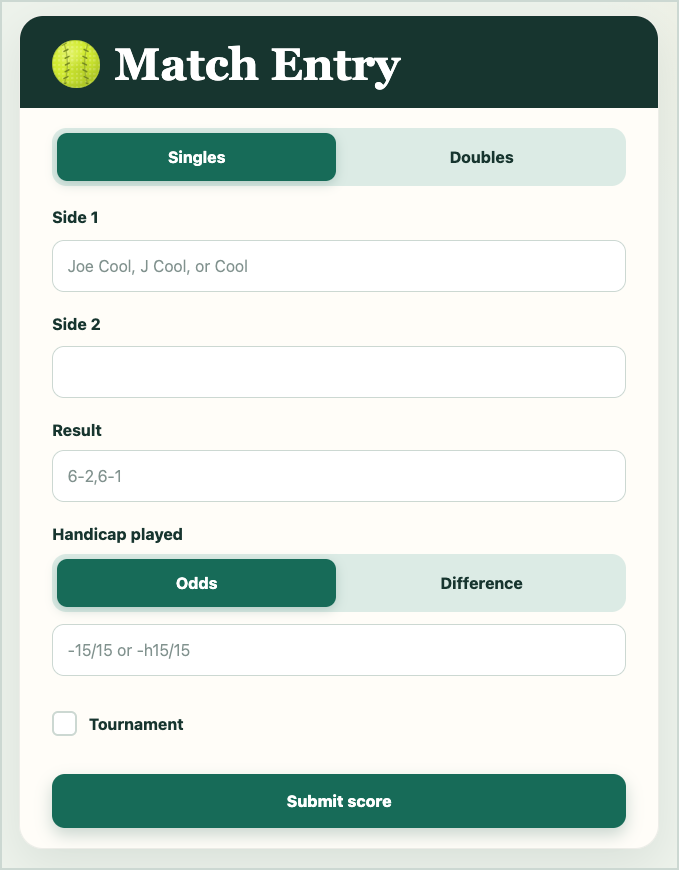
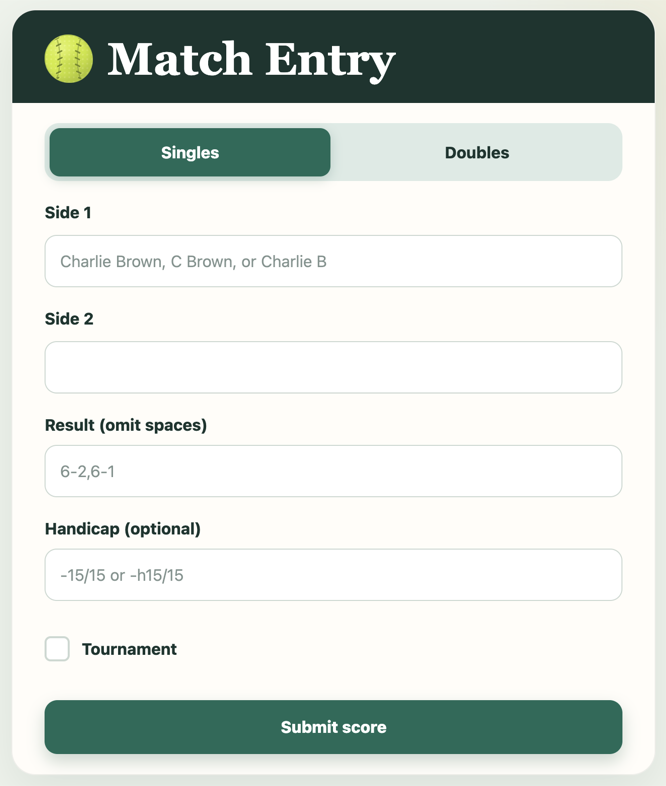
Refresh match entry screenshot and add review dialog

diff --git a/README.md b/README.md
@@ -9,9 +9,13 @@ tested, and published through the root scripts.
 | ------------------------------------------------------------ | ------------------------------------------------------------------ |
 | ![Mobile match-entry form](docs/screenshots/match-entry.png) | ![Score Review sign-in](docs/screenshots/score-review-sign-in.png) |
 
-| Needs review                                                       | History                                                                |
-| ------------------------------------------------------------------ | ---------------------------------------------------------------------- |
-| ![Scores awaiting review](docs/screenshots/score-review-queue.png) | ![Paged submission history](docs/screenshots/score-review-history.png) |
+| Needs review                                                       | Review score                                                     |
+| ------------------------------------------------------------------ | ---------------------------------------------------------------- |
+| ![Scores awaiting review](docs/screenshots/score-review-queue.png) | ![Score review dialog](docs/screenshots/score-review-dialog.png) |
+
+| History                                                                |
+| ---------------------------------------------------------------------- |
+| ![Paged submission history](docs/screenshots/score-review-history.png) |
 
 ## Components
 
